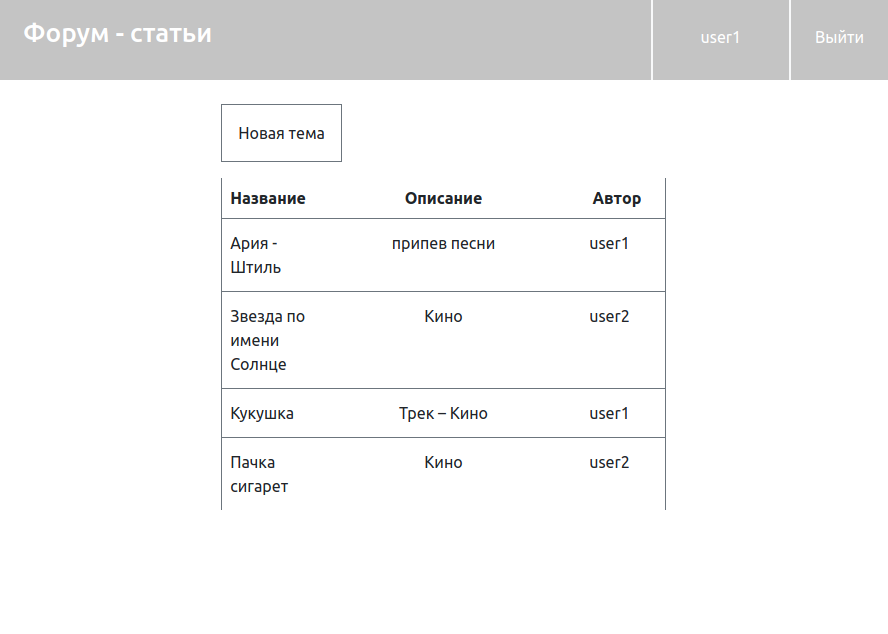
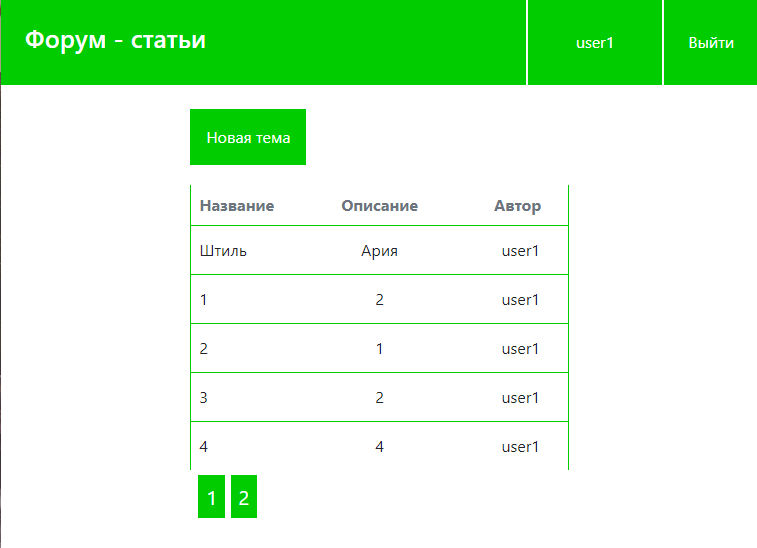
обновлена цвтеоая тема

diff --git a/application/css/template.css b/application/css/template.css
@@ -1,13 +1,15 @@
-.bg-c4c4c4 {background-color: #C4C4C4;}
-.btn-bg-C4C4C4 {background-color: #C4C4C4;}
-.btn-bg-C4C4C4:hover {background-color: #E4E4E4;}
-.text-c4c4c4 {color: #C4C4C4;}
+textarea {resize: none;}
+hr {border: 1px solid #00DD00;}
+
 .m-0 {margin: 0;}
 .h-page404{height: 40rem;}
 .cursor-pointer {cursor:pointer;}
+.form__input::placeholder {color: #999;}
 
-.border-C4C4C4 {border: 1px solid #E4E4E4;}
-
-textarea {
-   resize: none;
-}
+.bg-lime {background-color: #00CC00;}
+.text-lime {color: #00CC00;}
+.border-lime {border: 1px solid #00CC00;}
+.border-start-lime {border-left: 1px solid #00CC00;} 
+.border-end-lime {border-right: 1px solid #00CC00;}
+.border-top-lime {border-top: 1px solid #00CC00;}
+.border-bottom-lime {border-bottom: 1px solid #00CC00;}

diff --git a/application/css/articles.css b/application/css/articles.css
@@ -1,3 +1,4 @@
 .table-articles__tr:hover{
-    background-color: #E4E4E4;
+    background-color: #00DD00;
+    color:white;
 }

diff --git a/application/views/show-article_view.php b/application/views/show-article_view.php
@@ -4,29 +4,29 @@
         <?php if ($data['login'] === $data['article']['username']) { ?>
             <a href="<?php echo '/article/edit/'.$data['article']['id']; ?>" 
                id='btn-edit' 
-               class='d-inline-block border border-dark text-decoration-none text-dark p-3 bg-white'>Редактировать</a>
+               class='d-inline-block text-decoration-none p-3 border-lime bg-lime text-white'>Редактировать</a>
             <a href="<?php echo '/article/remove/'.$data['article']['id']; ?>" 
                id='btn-edit' 
-               class='d-inline-block border border-dark text-decoration-none text-dark p-3 bg-white'>Удалить</a>
+               class='d-inline-block text-decoration-none text-dark p-3 border-lime bg-lime text-white'>Удалить</a>
         <?php } ?>
-        <a href="/article" class='d-inline-block border border-dark text-decoration-none text-dark p-3 bg-white'>Назад</a>
+        <a href="/article" class='d-inline-block text-decoration-none text-dark p-3 border-lime bg-lime text-white'>Назад</a>
     </section>
 
     <!-- статья --> 
-    <section class='w-50 mx-auto p-2 text-center border-start border-end'>
+    <section class='w-50 mx-auto p-2 text-center border-start-lime border-end-lime'>
         <h2><?php echo $data['article']['title']; ?></h2>
         <p>Автор: <?php echo $data['article']['username']; ?></p>
         <p><?php echo nl2br($data['article']['content']); ?></p>
     </section>
 
-    <div class='w-50 mx-auto'><hr></div>
+    <div class='w-50 mx-auto '><hr></div>
 
     <!-- комментарии -->
-    <section class='w-50 mx-auto p-2 text-center border-start border-end'>
+    <section class='w-50 mx-auto p-2 text-center border-start-lime border-end-lime'>
         <h4 class='text-start ps-2'> Комментарии </h4>
         <section id='comment-list'>
             <?php foreach ($data['comments'] as $comment) { ?>
-                <article class='comment-list__item border-C4C4C4 mb-2' id='<?php echo "id-{$comment['id']}"; ?>'>
+                <article class='comment-list__item mb-2 border-C4C4C4' id='<?php echo "id-{$comment['id']}"; ?>'>
                     <p class='text-start m-0 ps-2 fw-bolder'><?php echo $comment['login']; ?></p>
                     <p class='text-start m-0 py-2 ps-3 fs-5'><?php echo nl2br($comment['content']); ?></p>
                     <p class='text-end m-0 pe-2'>
@@ -41,8 +41,8 @@
             <form method='post' class='d-flex justify-content-between w-100' id='form-send-message'>
                 <input type="hidden" name="article" value="<?php echo $data['article']['id']; ?>" >
                 <input type="hidden" name="author" value="<?php echo $data['login']; ?>" >
-                <textarea class="input-group-prepend form-control" rows='3' placeholder='Сообщение' name='message' id='form-send-message__msg' required></textarea>
-                <button type="submit" class='btn border border-black' title='Отправить'>Отправить</button>
+                <textarea class="input-group-prepend form-control border-lime" rows='3' placeholder='Сообщение' name='message' id='form-send-message__msg' required></textarea>
+                <button type="submit" class='btn border-lime bg-lime text-white' title='Отправить'>Отправить</button>
             </form>
         </div>
     </section>

diff --git a/application/views/articles_view.php b/application/views/articles_view.php
@@ -1,18 +1,18 @@
 <section class='w-50 mx-auto'>
     <a href="/article/create">
-        <p class='d-inline-block border border-secondary text-decoration-none text-dark p-3'>Новая тема</p>
+        <p class='d-inline-block text-decoration-none p-3 bg-lime text-white'>Новая тема</p>
     </a>
 
-    <section>
-         <article class='d-flex border-start border-end border-secondary p-1'>
-            <p class='w-25 m-0 fw-bolder p-1'>Название</p>
-            <p class='w-50 text-center m-0 fw-bolder p-1'>Описание</p>
-            <p class='w-25 text-center m-0 fw-bolder p-1'>Автор</p>
+    <section class='mt-1'>
+         <article class='d-flex border-start-lime border-end-lime p-1'>
+            <p class='w-25 m-0 fw-bolder p-1 text-secondary'>Название</p>
+            <p class='w-50 text-center m-0 fw-bolder p-1 text-secondary'>Описание</p>
+            <p class='w-25 text-center m-0 fw-bolder p-1 text-secondary'>Автор</p>
         </article>
         <?php foreach ($data['articles'] as $article) { ?>
             <a href="<?php echo '/article/show/'.$article['id']; ?>" class='text-decoration-none text-dark'>
                 <!-- для удобства показываю автора статьи -->
-                <article class='table-articles__tr cursor-pointer d-flex py-1 border-top border-start border-end border-secondary'>
+                <article class='table-articles__tr cursor-pointer d-flex py-1 border-top-lime border-start-lime border-end-lime'>
                     <p class='w-25 m-0 p-2'><?php echo $article['title']; ?></p>
                     <p class='w-50 text-center m-0 p-2'><?php echo $article['summary']; ?></p>
                     <p class='w-25 text-center m-0 p-2'><?php echo $article['author']; ?></p>
@@ -22,10 +22,10 @@
     </section>
     <!-- страницы показа статей (по 5) -->
     <?php if ($data['page-count'] > 1) {?>
-        <section class='p-2 fs-5'>
+        <section class='p-2 fs-5 mt-1'>
             <?php for ($i = 0; $i < $data['page-count']; ++$i) {?>
                 <?php $page_number = $i + 1; ?>
-                <a class='text-dark' href='<?php echo '/article?list='.$page_number; ?>'><?php echo $page_number; ?></a>
+                <a class='bg-lime text-decoration-none p-2 text-white' href='<?php echo '/article?list='.$page_number; ?>'><?php echo $page_number; ?></a>
             <?php } ?>
         </section>
     <?php } ?>

diff --git a/application/views/reg_view.php b/application/views/reg_view.php
@@ -1,30 +1,30 @@
 <div class='container text-center'>
-    <h3 class='mt-4 mb-4'>Регистрация нового пользователя</h3>
+    <h3 class='mt-4 mb-4 text-secondary'>Регистрация нового пользователя</h3>
 
     <form class='reg-form' method="POST" id='reg-form'>
         <input type="hidden" name="registration">
 
         <div class='position-relative w-25 mx-auto'>
-            <input type="login" class="w-100 mb-2" id="reg-form__email-input" name='login' placeholder="логин">
+            <input type="login" class="form__input w-100 mb-2 border-lime p-1" id="reg-form__email-input" name='login' placeholder="логин">
             <p class='input-clue' id='reg-form__emai-clue'>введите логин</p>
         </div>
 
         <div class='position-relative w-25 mx-auto'>
-            <input type="password" class="w-100 mb-2" id="reg-form__password1-input" name='password'
+            <input type="password" class="form__input w-100 mb-2 border-lime p-1" id="reg-form__password1-input" name='password'
                    placeholder="пароль (минимум 3 символа)">
             <p class='input-clue' id='reg-form__password1-clue'>длина пароля минимум 3 символа</p>
         </div>
 
         <div class='position-relative w-25 mb-2 mx-auto'>
-            <input type="password" class="w-100 mb-2" id="reg-form__password2-input" placeholder="подтвердите пароль">
+            <input type="password" class="form__input w-100 mb-2 border-lime p-1" id="reg-form__password2-input" placeholder="подтвердите пароль">
             <p class='input-clue' id='reg-form__password2-clue'>пароли не совпадают</p>
         </div>
 
         <div>
-            <input type="submit" class='btn w-25 mb-2 btn-bg-C4C4C4 text-white' value="Регистрация" disabled
+            <input type="submit" class='btn w-25 mb-2 text-white bg-lime' value="Регистрация" disabled
                    id='reg-form__reg-btn'>
             <a href="/main" class='text-decoration-none'>
-                <div class='mx-auto w-25 btn-bg-C4C4C4 text-white p-2'>Назад</div>
+                <div class='mx-auto w-25 text-white p-2 bg-lime'>Назад</div>
             </a>
         </div>
 

diff --git a/application/views/edit-article_view.php b/application/views/edit-article_view.php
@@ -2,12 +2,12 @@
     <form method='POST' id='form-edit-article'>
         <input type="hidden" name="id" value="<?php echo $data['id']; ?>">
         <input type="hidden" name="author" value="<?php echo $data['login']; ?>" >
-        <input type="text" class='d-block mx-auto ps-3 p-2 mb-2 w-75 border-C4C4C4' name="title" placeholder='Заголовок' value="<?php echo $data['title']; ?>" required>
-        <textarea class="input-group-prepend form-control mb-2 w-75 mx-auto" rows='2'placeholder='Краткое содержание' name='summary' required> <?php echo $data['summary']; ?></textarea>
-        <textarea class="input-group-prepend form-control mb-2 w-75 mx-auto" rows='10'placeholder='Содержание' name='content' required><?php echo $data['content']; ?></textarea>
-        <input type="submit" value='Сохранить' class='d-inline-block border border-dark text-decoration-none text-dark p-2 bg-white border-C4C4C4'>
+        <input type="text" class='d-block mx-auto ps-3 p-2 mb-2 w-75 border-lime text-secondary' name="title" placeholder='Заголовок' value="<?php echo $data['title']; ?>" required>
+        <textarea class="input-group-prepend form-control mb-2 w-75 mx-auto border-lime text-secondary" rows='2'placeholder='Краткое содержание' name='summary' required> <?php echo $data['summary']; ?></textarea>
+        <textarea class="input-group-prepend form-control mb-2 w-75 mx-auto border-lime text-secondary" rows='10'placeholder='Содержание' name='content' required><?php echo $data['content']; ?></textarea>
+        <input type="submit" value='Сохранить' class='d-inline-block text-decoration-none p-2 border-lime bg-lime text-white'>
         <a href="<?php echo '/article/show/'.$data['id']; ?>">
-            <p class='d-inline-block border border-dark text-decoration-none text-dark p-2'>Назад</p>
+            <p class='d-inline-block text-decoration-none p-2 border-lime bg-lime text-white'>Назад</p>
         </a>
     </form>
     <p id='prg-error' class='pb-4 text-center text-danger fw-bolder'></p>

diff --git a/application/views/create-article_view.php b/application/views/create-article_view.php
@@ -1,12 +1,12 @@
 <div class='w-50 mx-auto text-center'>
     <form method='POST' id='form-create-article'>
         <input type="hidden" name="author" value="<?php echo $data['login']; ?>" >
-        <input type="text" class='d-block mx-auto ps-3 p-2 mb-2 w-75 border-C4C4C4' name="title" placeholder='Заголовок' required>
-        <textarea class="input-group-prepend form-control mb-2 w-75 mx-auto" rows='2'placeholder='Краткое содержание' name='summary' required></textarea>
-        <textarea class="input-group-prepend form-control mb-2 w-75 mx-auto" rows='10'placeholder='Содержание' name='content' required></textarea>
-        <input type="submit" value='Добавить' class='d-inline-block border border-dark text-decoration-none text-dark p-2 bg-white border-C4C4C4'>
+        <input type="text" class='d-block mx-auto ps-3 p-2 mb-2 w-75 text-secondary border-lime' name="title" placeholder='Заголовок' required>
+        <textarea class="input-group-prepend form-control mb-2 w-75 mx-auto text-secondary border-lime" rows='2'placeholder='Краткое содержание' name='summary' required></textarea>
+        <textarea class="input-group-prepend form-control mb-2 w-75 mx-auto text-secondary border-lime" rows='10'placeholder='Содержание' name='content' required></textarea>
+        <input type="submit" value='Добавить' class='d-inline-block text-decoration-none p-2 border-lime bg-lime text-white'>
         <a href="/article">
-            <p class='d-inline-block border border-dark text-decoration-none text-dark p-2'>Назад</p>
+            <p class='d-inline-block p-2 text-decoration-none border-lime bg-lime text-white'>Назад</p>
         </a>
     </form>
     <p id='prg-error' class='pb-4 text-center text-danger fw-bolder'></p>

diff --git a/application/views/login_view.php b/application/views/login_view.php
@@ -1,19 +1,19 @@
 <div class='container text-center'>
-    <h3 class='mt-4 mb-4'>Войти</h3>
+    <h3 class='mt-4 mb-4 text-secondary'>Войти</h3>
 
     <form class='login-form' method="POST" action='' id='login-form'>
         <div class='position-relative w-25 mx-auto'>
-            <input type="text" class="w-100 mb-2" id="login-form__email-input" name='login' placeholder="логин">
+            <input type="text" class="form__input w-100 mb-2 p-1 border-lime" id="login-form__email-input" name='login' placeholder="логин">
         </div>
         <div class='position-relative w-25 mx-auto'>
-            <input type="password" class="w-100 mb-2" id="login-form__password-input" name='password'
+            <input type="password" class="form__input w-100 mb-2 p-1 border-lime" id="login-form__password-input" name='password'
                    placeholder="пароль">
         </div>
         <div>
-            <input type="submit" class='btn w-25 mb-2 btn-bg-C4C4C4 text-white' value="Войти" disabled
+            <input type="submit" class='btn w-25 mb-2 text-white bg-lime' value="Войти" disabled
                    id='login-form__login-btn'>
             <a href="/main" class='text-decoration-none'>
-                <div class='mx-auto w-25 btn-bg-C4C4C4 text-white p-2'>Назад</div>
+                <div class='mx-auto w-25 text-white p-2 bg-lime'>Назад</div>
             </a>
         </div>
         <input type="hidden" id="input-csrf" value=<?php echo $data['csrfToken']; ?>>

diff --git a/application/views/template_view.php b/application/views/template_view.php
@@ -15,13 +15,13 @@
 <body>
 
 <header class='mb-4'>
-    <div class='text-center text-white bg-c4c4c4 d-flex justify-content-between'>
+    <div class='text-center text-white bg-lime d-flex justify-content-between'>
         <?php if (!is_null($data)) {?>
             <?php if (array_key_exists('login', $data)) {?>
                 <h3 class='p-4 w-90'><?php echo $pageName; ?></h3>
                 <div class='d-flex justify-content-end'>
                     <div class='d-flex align-items-center justify-content-between px-5 border-start border-end border-2 border-light'><?php echo $data['login']; ?></div>
-                    <a href="/Main?logout=true" class='text-white bg-c4c4c4 text-decoration-none'>
+                    <a href="/Main?logout=true" class='text-white text-decoration-none bg-lime'>
                         <div class='h-100 d-flex align-items-center px-4'>Выйти</div>
                     </a>
                 </div>

diff --git a/application/views/main_view.php b/application/views/main_view.php
@@ -1,8 +1,8 @@
 <div class='container text-center p-2 mt-6'>
     <a href="/login" class='text-decoration-none text-white'>
-        <div class='btn-bg-C4C4C4 p-2 w-25 mx-auto mt-4 mb-2'> Войти</div>
+        <div class='bg-lime p-2 w-25 mx-auto mt-4 mb-2'> Войти</div>
     </a>
     <a href="/reg" class='text-decoration-none text-white'>
-        <div class='btn-bg-C4C4C4 p-2 w-25 mx-auto'>Регистрация</div>
+        <div class='bg-lime p-2 w-25 mx-auto'>Регистрация</div>
     </a>
 </div>

diff --git a/readme.md b/readme.md
@@ -32,7 +32,7 @@
 + Пользователь просматривает сообщение со списком комментариев.
 + Пользователь добавляет комментарий.
     * если авторизованный пользователь - автор статьи
-![список статей](/storage/images/show%20my.png)
+![список статей](/storage/images/showmy.png)
     * другой авторизованный пользователь
 ![список статей](/storage/images/show.png)
 + Пользователь добавляет сообщение. Сообщение состоит из:
